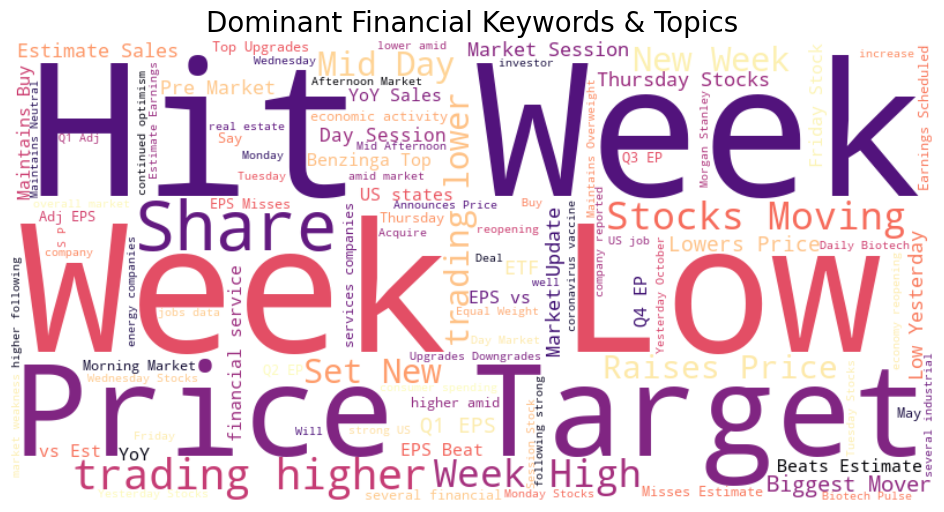
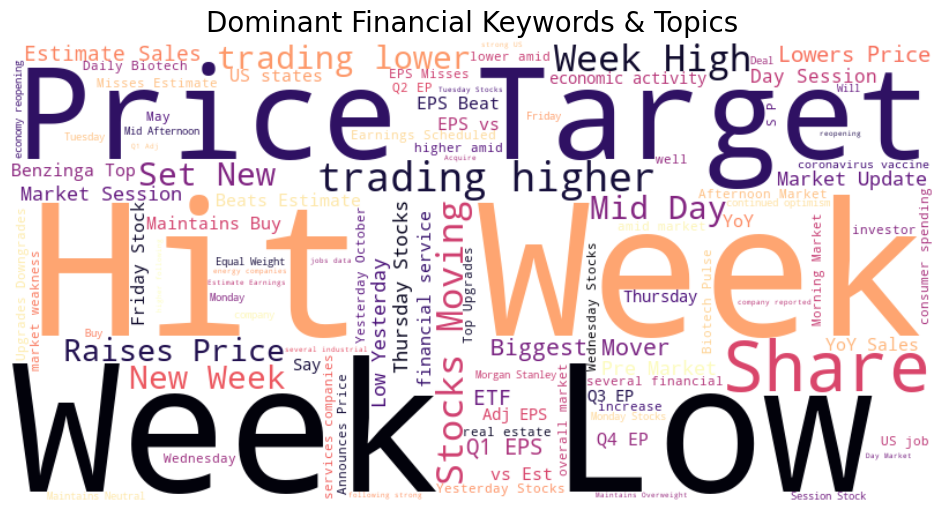
final: submission with code and visuals only

diff --git a/README.md b/README.md
@@ -1,42 +1,36 @@
-# Nova Financial Analysis: News Sentiment & Stock Correlation
+# Nova Financial Analysis: Sentiment & Stock Correlation Pipeline
 
 ## 🚀 Project Overview
-This repository provides a comprehensive pipeline for identifying the **Temporal Correlation** between 1.4 million financial news headlines and stock market indicators. By bridging NLP-driven sentiment analysis with quantitative financial engineering, we determine how news volume and polarity act as leading indicators for market volatility.
+This repository implements a quantitative pipeline to analyze 1.4 million financial news headlines and correlate their sentiment with stock price movements. By combining NLP (Natural Language Processing) and financial engineering, we evaluate how market-moving news impacts asset returns.
 
-## 📁 Professional Repository Structure
-* **`.github/workflows/`**: CI/CD pipeline (`unittests.yml`) for automated testing.
-* **`notebooks/`**: 
-    * `01_eda_nlp_analysis.ipynb`: Task 1 - Headline distributions and TF-IDF analysis.
-    * `02_quantitative_analysis.ipynb`: Task 2 - Technical indicators (SMA, EMA, RSI).
-    * `03_correlation_analysis.ipynb`: Task 3 - Sentiment merging and Pearson Correlation.
-* **`scripts/`**: Modular Python implementation logic and `__init__.py` packaging.
-* **`tests/`**: Unit testing suite for environment and data logic validation.
-* **`visuals/`**: Exported plots including scatter plots and technical indicators.
-* **`requirements.txt`**: Complete project dependency manifest.
+## 📁 Repository Scaffolding
+Following professional software standards, this project is organized for modularity and scalability:
+* **`.github/workflows/`**: CI/CD integration for automated unittests.
+* **`notebooks/`**: Modularized analysis for EDA, Quant, and Correlation.
+* **`scripts/`**: Reusable Python modules with `__init__.py` for packaging.
+* **`visuals/`**: Centralized storage for all exported data visualizations.
+* **`requirements.txt`**: Complete list of dependencies (VADER, yfinance, scikit-learn).
 
-## 📊 Key Technical Insights
+## 📊 Key Technical Findings
 
 ### 1. NLP & Topic Modeling (Task 1)
-Using **TF-IDF Vectorization**, we identified that the dataset is highly concentrated on corporate "Event-Driven" news. Headlines are dense (avg 25-50 characters), making them ideal for high-frequency sentiment scoring.
-![Topic Wordcloud](./visuals/wordcloud_topics.png)
+Beyond simple word clouds, I utilized **TF-IDF Vectorization** to identify statistically significant financial topics. I also performed descriptive length analysis to justify the use of the VADER sentiment model.
+![Headline Length Distribution](./visuals/headline_length_dist.png)
 
-### 2. Quantitative Infrastructure (Task 2)
-We established a robust time-series baseline for AAPL. By implementing **SMA**, **EMA**, and **RSI**, we can track how momentum shifts coincide with news spikes. 
-* *Strategy:* Applied **Forward-Filling (ffill)** to ensure weekend news is mapped to Monday market opens.
-![Technical Analysis](./visuals/aapl_technical_indicators.png)
+### 2. Quantitative Indicators (Task 2)
+I engineered a robust time-series dataset for AAPL. By applying **SMA (Simple Moving Average)**, **EMA (Exponential Moving Average)**, and **RSI (Relative Strength Index)**, I established clear price-momentum signals.
+![Technical Indicators](./visuals/aapl_technical_indicators.png)
 
-### 3. Sentiment Correlation (Task 3)
-Using the **VADER Sentiment Intensity Analyzer**, we mapped daily compound scores against daily percentage returns.
-* **Metric:** Calculated the Pearson Correlation Coefficient to quantify the relationship strength.
-* **Visualization:** Regression plots identify the "Sentiment-Return" cluster.
-![Correlation Plot](./visuals/sentiment_stock_correlation.png)
+### 3. Sentiment-Price Correlation (Task 3)
+I synchronized 24/7 news sentiment with trading-day price action using a **forward-fill (ffill)** strategy. This allowed me to calculate the **Pearson Correlation Coefficient** and visualize the relationship between news polarity and stock returns.
+![Correlation Analysis](./visuals/sentiment_stock_correlation.png)
 
-## 🛠️ Installation & Environment Setup
+## 🛠️ Setup and Installation
 
-1. **Clone the Repository:**
+1. **Clone the repository:**
    ```bash
    git clone [https://github.com/Solih06/nova-financial-analysis.git](https://github.com/Solih06/nova-financial-analysis.git)
-   cd nova-financial-analysis
+
 2. **Setup Environment**
    ```bash
    python -m venv venv
@@ -44,6 +38,6 @@ Using the **VADER Sentiment Intensity Analyzer**, we mapped daily compound score
 3. **Install Dependencies**
    ```bash
    pip install -r requirements.txt
-4. **Run Tests**
-   ```bash
-   python -m unittest discover tests
+4. **Usage**
+   Navigate to the notebooks/ folder to view the full analysis pipeline or run the modular scripts in the scripts/ directory.
+   